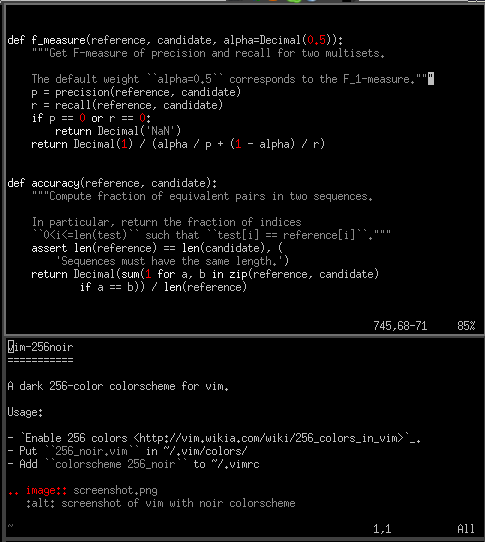
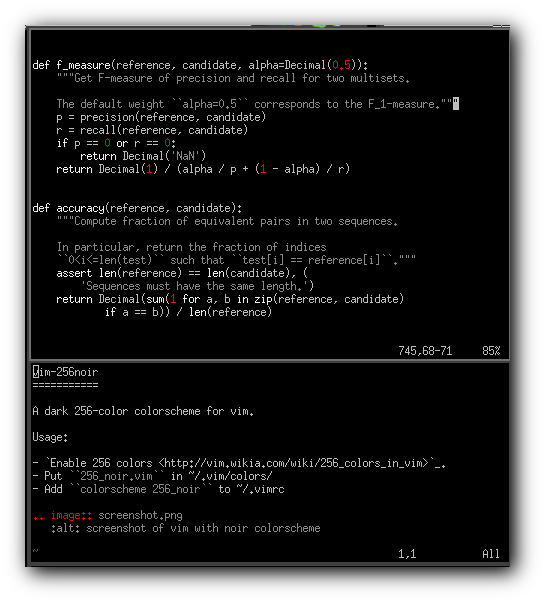
added more screenshots

diff --git a/README.md b/README.md
@@ -35,6 +35,10 @@ autocmd InsertLeave * highlight CursorLine cterm=NONE ctermfg=NONE ctermbg=233 g
 
 ![screenshot of vim with noir colorscheme](screenshot.png)
 
+![c-shot](shot-c.png)
+
+![py-shot](shot-py.png)
+
 The font in the above screenshots is the default xterm bitmap font
 [fixed](https://en.wikipedia.org/wiki/Fixed_(typeface)) at 6x13.
 
